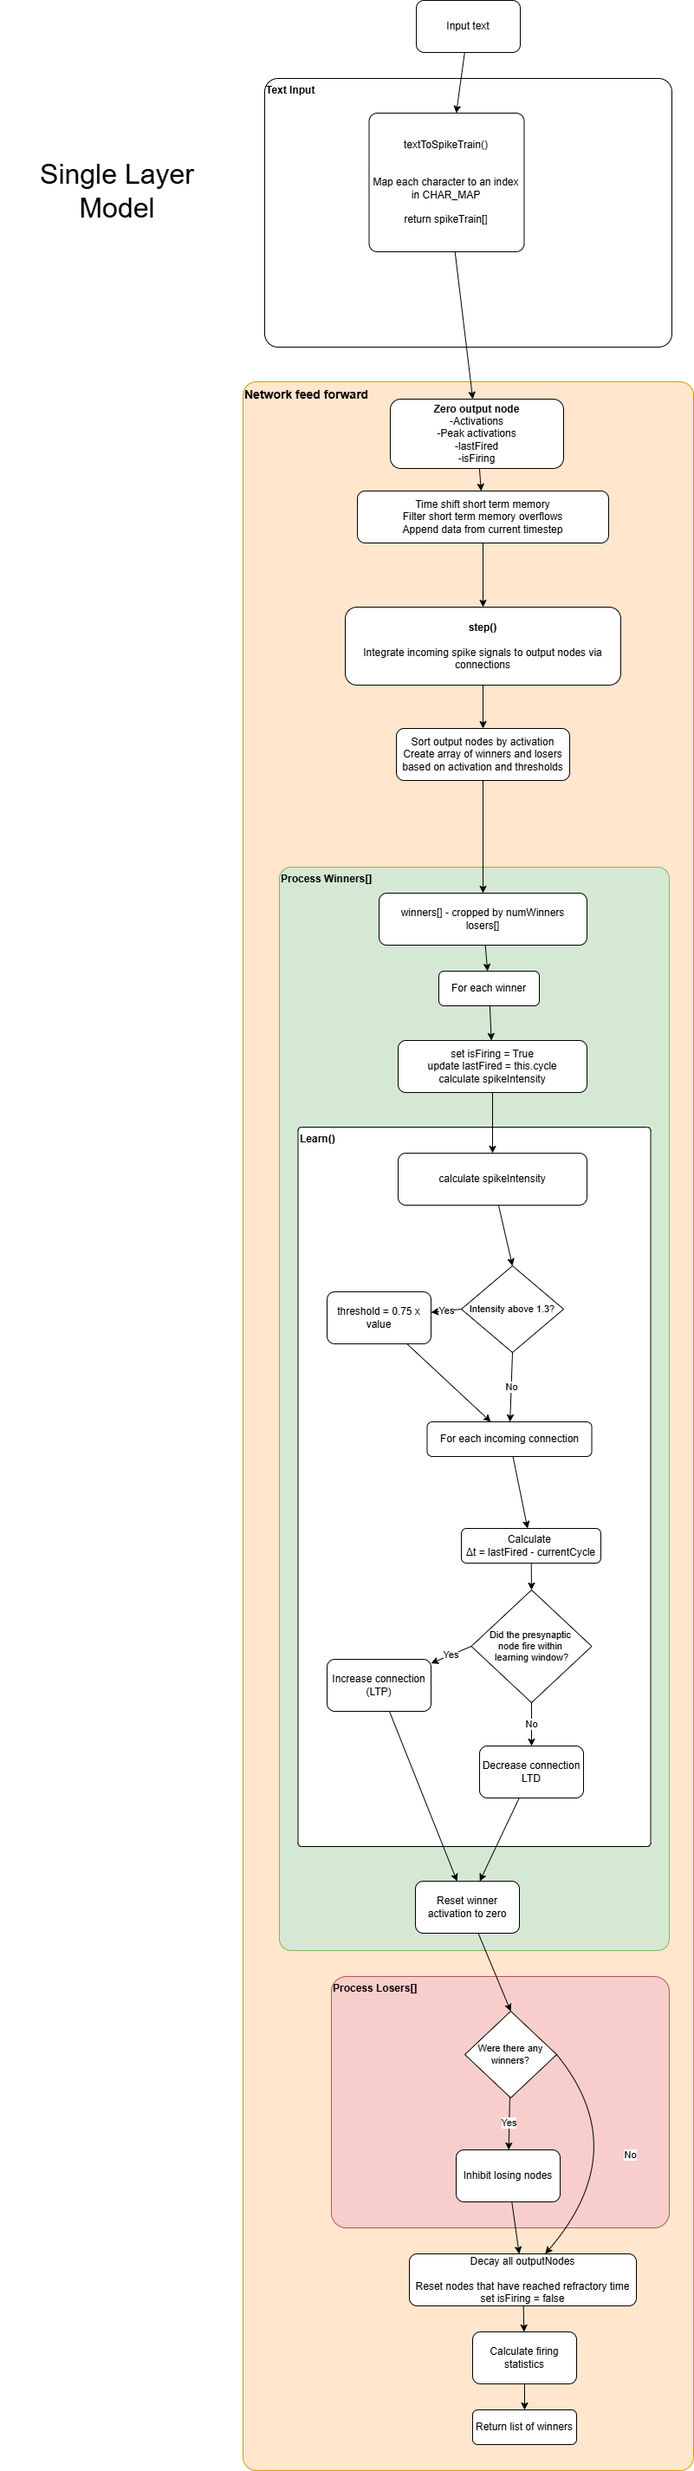
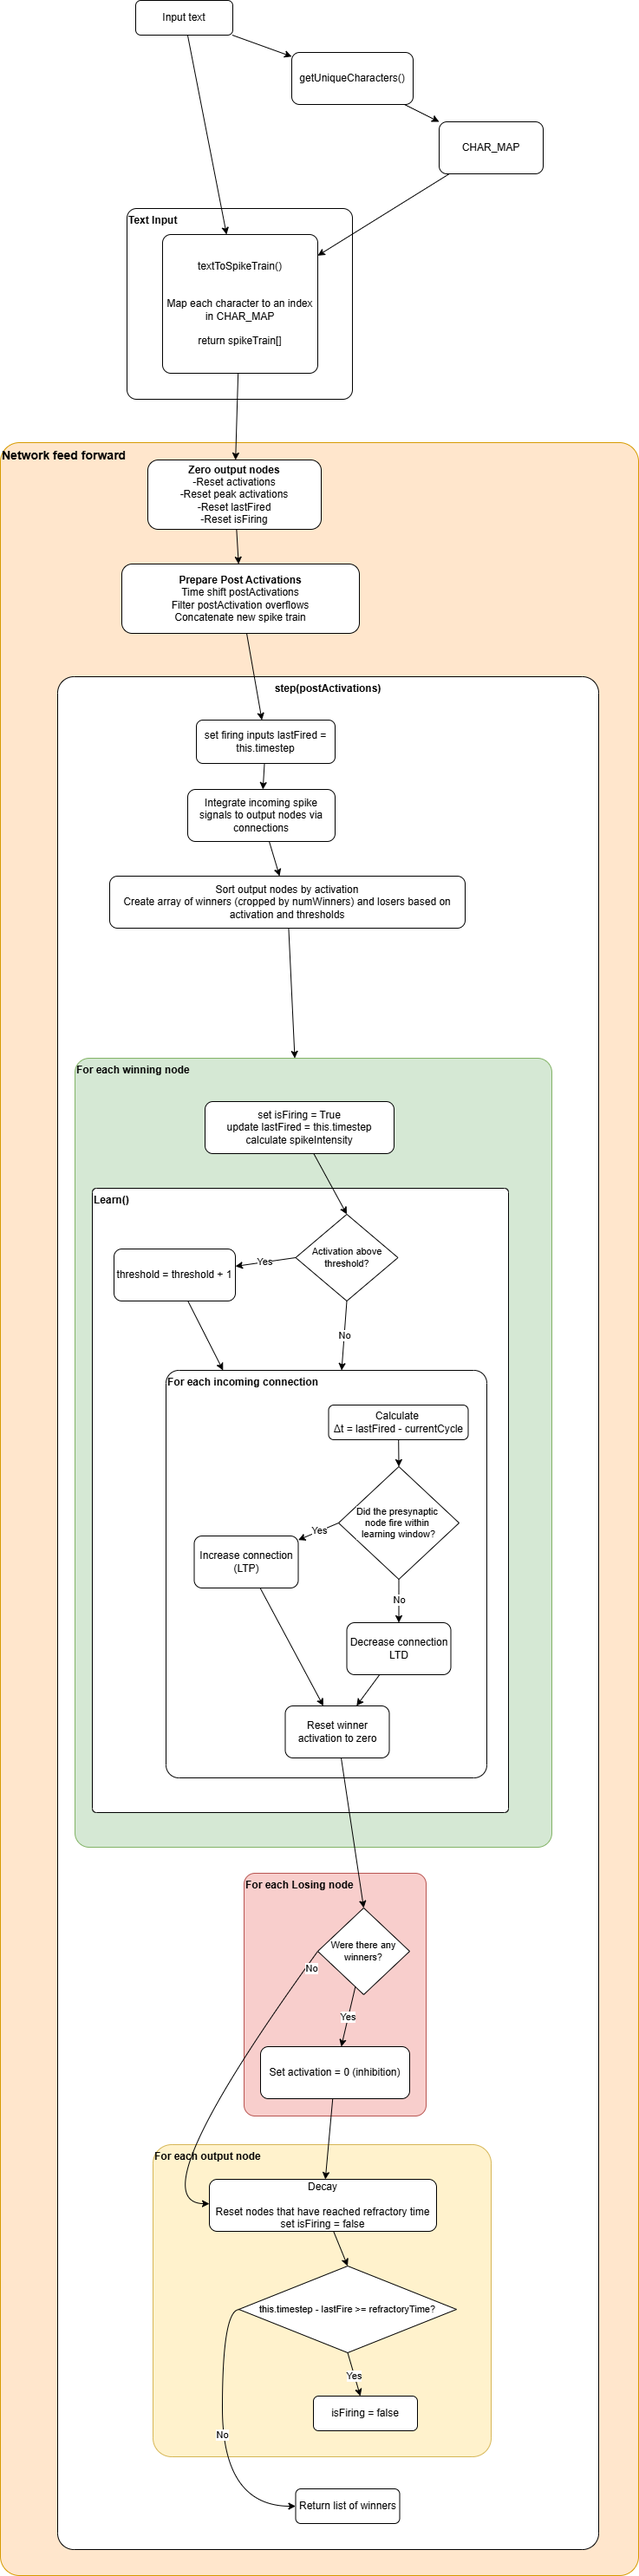
Working prototype binary sequence detection

diff --git a/src/spike_v15.js b/src/spike_v15.js
@@ -1,8 +1,8 @@
 // Node class
 class Node {
   constructor(threshold, learningWindow) {
-    this.value = 0;
-    this.peakValue = 0;           // Peak activation for this timestep
+    this.activation = 0;
+    this.peakActivation = 0;           // Peak activation for this timestep
     this.connectionIds = new Set();
     this.isFiring = false;
     this.lastFired = -10000;      // Timestep when this node last fired
@@ -39,7 +39,7 @@ class Network {
     this.connections = [];
     this.numWinners = numWinners; // number of winners allowed in winner-takes-all
     this.timestep = 0;          // Timestep, counts to infinity
-    this.frames = 0;            // Count the total number of feed forward steps
+    this.epoch = 0;            // Count the total number of feed forward steps
     this.LTPRate = LTPRate;     // weight change for LTP
     this.LTDRate = LTDRate;     // weight change for LTD
     this.learningWindow = learningWindow;   // Integration window, how far to look back for LTP
@@ -47,7 +47,7 @@ class Network {
     this.decayRate = decayRate;
     this.refractoryTime = refractoryTime;
     this.startingThreshold = startingThreshold;
-    this.preSynapticReset = preSynapticReset;                     // When enabled, if an output node spikes, the presynaptic nodes have their lastFired value set to a highly negative number preventing them from being involved in LTP until they fire again.
+    this.preSynapticReset = preSynapticReset;       // When enabled, if an output node fires, the presynaptic nodes have their lastFired value set to a highly negative number preventing them from participating in LTP.
     this.thresholdIncrease = thresholdIncrease;     // When enabled, nodes that fire with strong intensity have their thresholds increased
     this.spikeTrain = [];
     this.postActivationHistory = [];
@@ -89,23 +89,13 @@ class Network {
 
   }
 
+  // Print the incomming connections to a node
   printConnections(outputNodeId) {
-
-    var self = this
+    var self = this;
     this.outputNodes[outputNodeId].connectionIds.forEach(function(connectionId) {
       var conn = self.connections[connectionId];
       console.log(conn.fromId, conn.weight);
     })
-  }
-
-  // Delete a connection
-  removeConnection(id) {
-    this.inputNodes.forEach(function(inputNode) {
-      inputNode.connectionIds.delete(id);
-    });
-    this.outputNodes.forEach(function(outputNode) {
-      outputNode.connectionIds.delete(id);
-    });
   }
 
   // Consolidate master connection array, reducing to only those that occur in node connectionId lists
@@ -185,8 +175,8 @@ class Network {
     // Set previous activations to zero
     if (reset) {
       for (var j = 0; j < this.outputNodes.length; j++) {
-        this.outputNodes[j].value = 0;
-        this.outputNodes[j].peakValue = 0;
+        this.outputNodes[j].activation = 0;
+        this.outputNodes[j].peakActivation = 0;
         this.outputNodes[j].lastFired = -1000;
         this.outputNodes[j].isFiring = false;
       }
@@ -217,7 +207,7 @@ class Network {
       //};
       this.timestep = this.timestep + 1;
     }
-    this.frames = this.frames + 1;
+    this.epoch = this.epoch + 1;
 
   }
 
@@ -240,14 +230,14 @@ class Network {
 
         // Integrate only if the output is not already firing
         if (!toNode.isFiring) {
-          toNode.value = toNode.value + conn.weight;
-          toNode.peakValue = toNode.value
+          toNode.activation = toNode.activation + conn.weight;
+          toNode.peakActivation = toNode.activation
         };
       });
 
     }
 
-    // Determine winning and losing nodes based on activation value and threshold
+    // Determine winning and losing nodes based on activation and threshold
     var winnerIds = [];
     var loserIds = [];
 
@@ -255,9 +245,9 @@ class Network {
     for (var nodeId = 0; nodeId < this.outputNodes.length; nodeId++) {
       activations.push([
         nodeId,
-        this.outputNodes[nodeId].value,
+        this.outputNodes[nodeId].activation,
         this.outputNodes[nodeId].threshold,
-        this.outputNodes[nodeId].value / this.outputNodes[nodeId].threshold
+        this.outputNodes[nodeId].activation / this.outputNodes[nodeId].threshold
       ]);
     }
 
@@ -277,22 +267,13 @@ class Network {
       }
     }
 
-    // // Select the highest activated node as an output regardless if it is above threshold
-    // for (var j = 0; j < activations.length; j++) {
-    //   if (j == 0) {
-    //     winnerIds.push(activations[j][0]);
-    //   } else {
-    //     loserIds.push(activations[j][0]);
-    //   }
-    // }
-
     // Process winning output nodes
     for (var w = 0; w < winnerIds.length; w++) {
 
       var nodeId = winnerIds[w];
       var outputNode = this.outputNodes[nodeId];
 
-      var spikeIntensity = outputNode.value / outputNode.threshold;
+      var spikeIntensity = outputNode.activation / outputNode.threshold;
       if (LOGGING) { console.log("Node fired: " + nodeId + " at t=" + this.timestep + " with spikeIntensity: " + spikeIntensity.toFixed(2)) }
 
       // Spike the winner
@@ -311,14 +292,14 @@ class Network {
       for (var l = 0; l < loserIds.length; l++) {
         var nodeId = loserIds[l];
         var outputNode = this.outputNodes[nodeId];
-        outputNode.value = 0;
+        outputNode.activation = 0;
       }
     }
 
     // Decay all outputNodes
     for (var k = 0; k < this.outputNodes.length; k++) {
       let outputNode = this.outputNodes[k];
-      outputNode.value = outputNode.value * (1 - this.decayRate);
+      outputNode.activation = outputNode.activation * (1 - this.decayRate);
 
       // Reset nodes that have reached refractoryTime
       if (outputNode.isFiring && ((this.timestep - outputNode.lastFired) >= this.refractoryTime)) {
@@ -334,15 +315,18 @@ class Network {
   // Perform learning step (make output node more receptive to recently fired inputs)
   learn(outputNode) {
 
-    var spikeIntensity = outputNode.value / outputNode.threshold;
+    var spikeIntensity = outputNode.activation / outputNode.threshold;
 
-    if (outputNode.value >= (outputNode.threshold + 1)) {
+    // Apply adaptive threshold
+    if (outputNode.activation > outputNode.threshold) {
       outputNode.threshold = outputNode.threshold+1;
+      console.log("Threshold increased")
     }
-    // Increase threshold if spikeIntensity is above 130%
+
+    // Alternate adaptive threshold method
     // if (this.thresholdIncrease && (spikeIntensity > 1.3)) {
-    //   outputNode.threshold = outputNode.value*0.75;
-    //   outputNode.threshold = outputNode.value+1;
+    //   outputNode.threshold = outputNode.activation*0.75;
+    //   outputNode.threshold = outputNode.activation+1;
     // }
 
     const self = this;
@@ -357,33 +341,24 @@ class Network {
       // Determine if fromNode fired before toNode - LTP
       var deltaT = fromNode.lastFired - toNode.lastFired;   // Negative number if fromNode was before toNode
       let withinLTPRange = (deltaT <= 0) && (-deltaT < toNode.learningWindow)
-      //if (toNode.value > toNode.threshold) {
 
-        if (withinLTPRange) {
-
-          // LTP this connection
-          conn.setWeight(conn.weight + self.LTPRate);
-          // if (LOGGING) { console.log("Reinforcing\t\t" + conn.fromId + "-->" + conn.toId + " '" + self.inputNodes[conn.fromId].label + "'") }
-          if (self.preSynapticReset) {
-            fromNode.lastFired = -5;
-          }
-
-        } else {
-          // LTD this connection
-          var stillActive = conn.setWeight(conn.weight - self.LTDRate);
-          // if (LOGGING) { console.log("Discouraging\t" + conn.fromId + "-->" + conn.toId + " '" + self.inputNodes[conn.fromId].label + "'") }
-
-
-          //if (!stillActive) { self.removeConnection(connectionId) }
-
+      if (withinLTPRange) {
+        // Reinforce this connection
+        conn.setWeight(conn.weight + self.LTPRate);
+        // if (LOGGING) { console.log("Reinforcing\t\t" + conn.fromId + "-->" + conn.toId + " '" + self.inputNodes[conn.fromId].label + "'") }
+        if (self.preSynapticReset) {
+          fromNode.lastFired = -5;
         }
-
-      //} else { console.log("something wrong") }
+      } else {
+        // Discourage this connection
+        var stillActive = conn.setWeight(conn.weight - self.LTDRate);
+        // if (LOGGING) { console.log("Discouraging\t" + conn.fromId + "-->" + conn.toId + " '" + self.inputNodes[conn.fromId].label + "'") }
+      }
 
     });
 
-    // Reset node to resting value
-    outputNode.value = 0;
+    // Reset node to resting activation
+    outputNode.activation = 0;
   }
 
 }

diff --git a/src/spike_v15.html b/src/spike_v15.html
@@ -294,14 +294,14 @@
 
       // Draw peak activation bars in red
       ctx.fillStyle = "rgba(255, 0, 0, 0.5)"; // Semi transparent red
-      ctx.fillRect(s*xScale, canvas.height, xScale, -network.outputNodes[s].peakValue * scaleFactor);
+      ctx.fillRect(s*xScale, canvas.height, xScale, -network.outputNodes[s].peakActivation * scaleFactor);
 
       // Draw threshold bars in blue
       ctx.strokeStyle = "blue";
       ctx.strokeRect(s*xScale, canvas.height, xScale, -network.outputNodes[s].threshold * scaleFactor);
     }
 
-    // Draw peak value
+    // Draw peak activation
     ctx.fillStyle = "white";
     ctx.textAlign = "left";
     ctx.textBaseline = "top";
@@ -619,8 +619,8 @@
 
         randomGenerator = new PseudoRandomGenerator();
         snn = new Network({
-          numInputs: CHAR_MAP.length*12,
-          numOutputs: 700,
+          numInputs: CHAR_MAP.length*2,
+          numOutputs: 20,
           blockSize: CHAR_MAP.length,
           LTPRate: 1,
           LTDRate: 1,
@@ -638,8 +638,7 @@
         resizeCanvases();
 
         console.log("Initialisation Complete!");
-        setInterval(loop, ANIMATION_INTERVAL); // Adjust the interval to control the frame rate (here it's set to roughly 24 frames per second)
-
+        setInterval(loop, ANIMATION_INTERVAL); // Adjust the interval to control the frame rate
 
       }
     });
